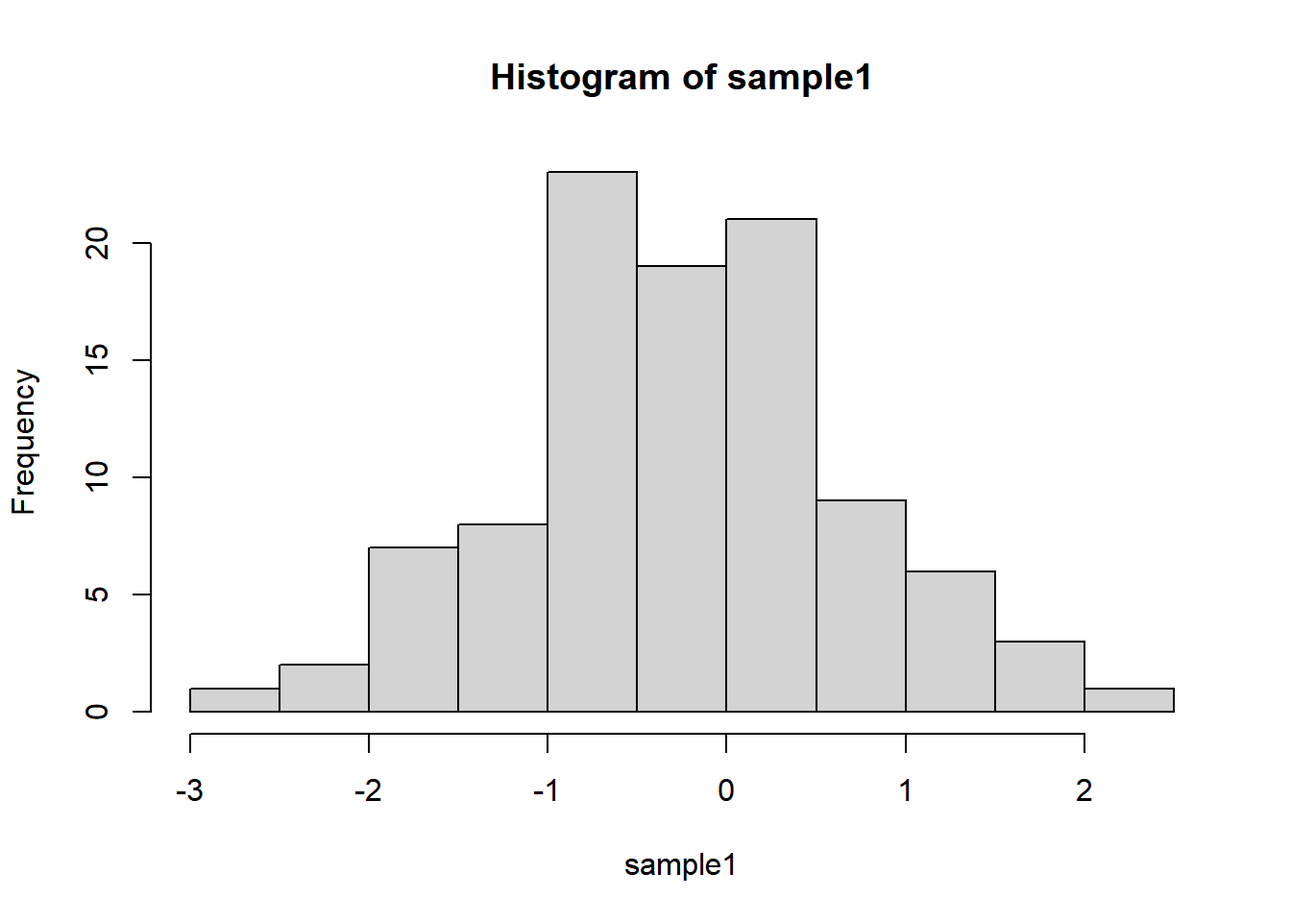
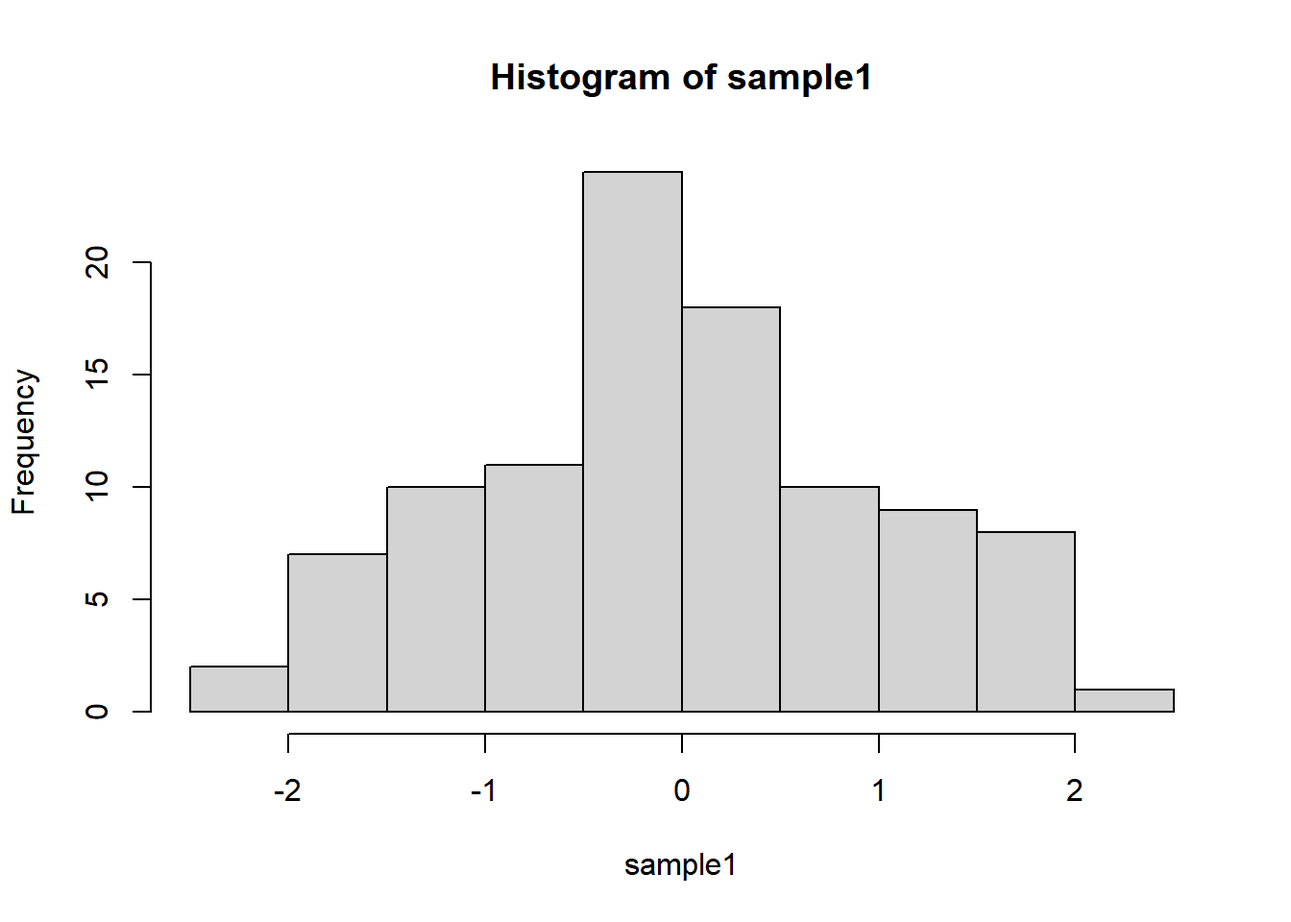
ditto

diff --git a/docs/S01.html b/docs/S01.html
@@ -1047,126 +1047,126 @@ mean temperature forecasts in 5 days in Shenzhen:</p>
 <span id="cb97-4"><a href="#cb97-4" tabindex="-1"></a>    <span class="fu">print</span>(<span class="fu">paste</span>(Daily_T,Hourly_T))</span>
 <span id="cb97-5"><a href="#cb97-5" tabindex="-1"></a>  }</span>
 <span id="cb97-6"><a href="#cb97-6" tabindex="-1"></a>}</span></code></pre></div>
-<pre><code>## [1] &quot;28 34.1789628545758&quot;
-## [1] &quot;28 32.5464531091401&quot;
-## [1] &quot;28 17.1944224184838&quot;
-## [1] &quot;28 30.1092030685489&quot;
-## [1] &quot;28 34.5397821079099&quot;
-## [1] &quot;28 26.8626919018606&quot;
-## [1] &quot;28 28.9107819169358&quot;
-## [1] &quot;28 26.9672509397576&quot;
-## [1] &quot;28 36.1962941023981&quot;
-## [1] &quot;28 23.8647009701312&quot;
-## [1] &quot;28 28.9701057386779&quot;
-## [1] &quot;28 31.3891449732738&quot;
-## [1] &quot;28 27.062786732847&quot;
-## [1] &quot;28 22.9555838861295&quot;
-## [1] &quot;28 27.1262063818752&quot;
-## [1] &quot;28 18.7611912951629&quot;
-## [1] &quot;28 27.0166201102975&quot;
-## [1] &quot;28 27.2133431189386&quot;
-## [1] &quot;28 26.7823750610976&quot;
-## [1] &quot;28 34.6629149973301&quot;
-## [1] &quot;28 30.4998897130068&quot;
-## [1] &quot;28 22.3022344909813&quot;
-## [1] &quot;28 27.8430251407478&quot;
-## [1] &quot;28 15.7431617521888&quot;
-## [1] &quot;27 20.6781803726533&quot;
-## [1] &quot;27 28.0393661637685&quot;
-## [1] &quot;27 19.9562191155122&quot;
-## [1] &quot;27 30.529371304621&quot;
-## [1] &quot;27 27.1371851052127&quot;
-## [1] &quot;27 28.4687783110951&quot;
-## [1] &quot;27 24.0384866511183&quot;
-## [1] &quot;27 27.0266821237088&quot;
-## [1] &quot;27 27.0421463380189&quot;
-## [1] &quot;27 28.665624072707&quot;
-## [1] &quot;27 24.2302329237903&quot;
-## [1] &quot;27 18.7485077607863&quot;
-## [1] &quot;27 13.1817074621106&quot;
-## [1] &quot;27 26.5476443827909&quot;
-## [1] &quot;27 28.158245455876&quot;
-## [1] &quot;27 22.3245972229205&quot;
-## [1] &quot;27 30.4884313208543&quot;
-## [1] &quot;27 28.7551039132199&quot;
-## [1] &quot;27 23.2788966209363&quot;
-## [1] &quot;27 33.4777819549065&quot;
-## [1] &quot;27 30.0862827242098&quot;
-## [1] &quot;27 26.7526867556822&quot;
-## [1] &quot;27 25.8350737372205&quot;
-## [1] &quot;27 26.1927800240109&quot;
-## [1] &quot;28 32.4112423468704&quot;
-## [1] &quot;28 39.7996456659934&quot;
-## [1] &quot;28 38.1320265769205&quot;
-## [1] &quot;28 29.1098420373582&quot;
-## [1] &quot;28 13.7430061309092&quot;
-## [1] &quot;28 22.2658917870903&quot;
-## [1] &quot;28 32.7173509151655&quot;
-## [1] &quot;28 18.976552421835&quot;
-## [1] &quot;28 29.8469183565835&quot;
-## [1] &quot;28 22.1207188903068&quot;
-## [1] &quot;28 24.411807062223&quot;
-## [1] &quot;28 27.817393744901&quot;
-## [1] &quot;28 19.0820297202336&quot;
-## [1] &quot;28 31.3314099718602&quot;
-## [1] &quot;28 22.3486377381321&quot;
-## [1] &quot;28 34.4928339554602&quot;
-## [1] &quot;28 27.8707762850753&quot;
-## [1] &quot;28 31.4397546917298&quot;
-## [1] &quot;28 29.1558021693358&quot;
-## [1] &quot;28 32.2007885583386&quot;
-## [1] &quot;28 30.0831787849879&quot;
-## [1] &quot;28 19.4727640894584&quot;
-## [1] &quot;28 27.0756278056094&quot;
-## [1] &quot;28 31.0906522102998&quot;
-## [1] &quot;26 18.836592826767&quot;
-## [1] &quot;26 30.8074303805953&quot;
-## [1] &quot;26 31.4544062842018&quot;
-## [1] &quot;26 27.09878086523&quot;
-## [1] &quot;26 27.1254932464347&quot;
-## [1] &quot;26 20.6173051039619&quot;
-## [1] &quot;26 32.421857363002&quot;
-## [1] &quot;26 27.0569850965368&quot;
-## [1] &quot;26 17.4797153583461&quot;
-## [1] &quot;26 22.0801893756404&quot;
-## [1] &quot;26 26.6021323991658&quot;
-## [1] &quot;26 27.4604503385699&quot;
-## [1] &quot;26 23.37969171&quot;
-## [1] &quot;26 32.7884808018584&quot;
-## [1] &quot;26 25.512595487915&quot;
-## [1] &quot;26 15.0011812002227&quot;
-## [1] &quot;26 33.108536095054&quot;
-## [1] &quot;26 27.8059191187299&quot;
-## [1] &quot;26 26.2294555875901&quot;
-## [1] &quot;26 16.9036281883117&quot;
-## [1] &quot;26 29.8664530390802&quot;
-## [1] &quot;26 23.8274023054965&quot;
-## [1] &quot;26 26.5019832056272&quot;
-## [1] &quot;26 33.4980425548479&quot;
-## [1] &quot;27 31.6016554330236&quot;
-## [1] &quot;27 27.7624517141814&quot;
-## [1] &quot;27 28.7763030890326&quot;
-## [1] &quot;27 28.0430856655609&quot;
-## [1] &quot;27 32.4511143656418&quot;
-## [1] &quot;27 26.7863432036462&quot;
-## [1] &quot;27 21.5865823462776&quot;
-## [1] &quot;27 24.1630139749067&quot;
-## [1] &quot;27 27.3227840861997&quot;
-## [1] &quot;27 25.3153244251879&quot;
-## [1] &quot;27 27.2799643911755&quot;
-## [1] &quot;27 19.6165210251332&quot;
-## [1] &quot;27 32.9206325314898&quot;
-## [1] &quot;27 31.0255056632425&quot;
-## [1] &quot;27 23.1343973914801&quot;
-## [1] &quot;27 33.6617344568002&quot;
-## [1] &quot;27 23.7555019294874&quot;
-## [1] &quot;27 28.8184230298212&quot;
-## [1] &quot;27 26.5254190212805&quot;
-## [1] &quot;27 26.3555284071362&quot;
-## [1] &quot;27 26.1305208599868&quot;
-## [1] &quot;27 25.1544653397834&quot;
-## [1] &quot;27 25.4142736282913&quot;
-## [1] &quot;27 31.2613147694574&quot;</code></pre>
+<pre><code>## [1] &quot;28 25.5781906265586&quot;
+## [1] &quot;28 20.4567239279177&quot;
+## [1] &quot;28 33.2332941170474&quot;
+## [1] &quot;28 26.6041498973038&quot;
+## [1] &quot;28 28.5962178120706&quot;
+## [1] &quot;28 25.9451472082166&quot;
+## [1] &quot;28 26.9108858508206&quot;
+## [1] &quot;28 39.2733176688309&quot;
+## [1] &quot;28 35.4727367256317&quot;
+## [1] &quot;28 18.2859967644885&quot;
+## [1] &quot;28 33.9368432378588&quot;
+## [1] &quot;28 34.0755112591129&quot;
+## [1] &quot;28 30.3043946663635&quot;
+## [1] &quot;28 22.0813382087039&quot;
+## [1] &quot;28 33.8752610060431&quot;
+## [1] &quot;28 29.969805632702&quot;
+## [1] &quot;28 35.3860623199022&quot;
+## [1] &quot;28 38.8836026800082&quot;
+## [1] &quot;28 35.0209906059588&quot;
+## [1] &quot;28 29.701984657821&quot;
+## [1] &quot;28 26.0458611537362&quot;
+## [1] &quot;28 43.6067619842215&quot;
+## [1] &quot;28 29.610139213537&quot;
+## [1] &quot;28 33.7060247783678&quot;
+## [1] &quot;27 26.0735630609044&quot;
+## [1] &quot;27 22.8074100623091&quot;
+## [1] &quot;27 37.6923012813089&quot;
+## [1] &quot;27 22.9770834704983&quot;
+## [1] &quot;27 27.7764062959639&quot;
+## [1] &quot;27 31.3707522401436&quot;
+## [1] &quot;27 26.0173716721558&quot;
+## [1] &quot;27 24.9748270450194&quot;
+## [1] &quot;27 25.9763987174491&quot;
+## [1] &quot;27 32.7802956957123&quot;
+## [1] &quot;27 30.4563540649198&quot;
+## [1] &quot;27 21.2579222660786&quot;
+## [1] &quot;27 23.3811849177809&quot;
+## [1] &quot;27 31.7317103195707&quot;
+## [1] &quot;27 27.5938620788657&quot;
+## [1] &quot;27 21.579724152138&quot;
+## [1] &quot;27 23.3037422967055&quot;
+## [1] &quot;27 17.6007716248955&quot;
+## [1] &quot;27 34.6134538935984&quot;
+## [1] &quot;27 18.7526484441017&quot;
+## [1] &quot;27 17.5896551647839&quot;
+## [1] &quot;27 25.9800034260357&quot;
+## [1] &quot;27 24.3872840187941&quot;
+## [1] &quot;27 33.104906326996&quot;
+## [1] &quot;28 19.914405513451&quot;
+## [1] &quot;28 31.2102607578118&quot;
+## [1] &quot;28 38.7593286860746&quot;
+## [1] &quot;28 30.6096590058041&quot;
+## [1] &quot;28 30.7468029456331&quot;
+## [1] &quot;28 33.0197211972052&quot;
+## [1] &quot;28 29.3645726782182&quot;
+## [1] &quot;28 27.7997697070961&quot;
+## [1] &quot;28 25.3079477556706&quot;
+## [1] &quot;28 31.5388832707992&quot;
+## [1] &quot;28 36.3753110859506&quot;
+## [1] &quot;28 22.5600331812626&quot;
+## [1] &quot;28 23.4429644329102&quot;
+## [1] &quot;28 31.53293984898&quot;
+## [1] &quot;28 15.8532165892665&quot;
+## [1] &quot;28 28.2112690682581&quot;
+## [1] &quot;28 23.0186617564579&quot;
+## [1] &quot;28 34.7289836888871&quot;
+## [1] &quot;28 33.452168190403&quot;
+## [1] &quot;28 23.4083092619187&quot;
+## [1] &quot;28 30.1279903413448&quot;
+## [1] &quot;28 27.5938419967275&quot;
+## [1] &quot;28 33.012633172443&quot;
+## [1] &quot;28 30.5961089392936&quot;
+## [1] &quot;26 23.2499169977259&quot;
+## [1] &quot;26 23.704255219711&quot;
+## [1] &quot;26 25.7982516489223&quot;
+## [1] &quot;26 30.1755886636917&quot;
+## [1] &quot;26 26.2137725632462&quot;
+## [1] &quot;26 21.3648810693786&quot;
+## [1] &quot;26 21.4315353490982&quot;
+## [1] &quot;26 21.8547105960294&quot;
+## [1] &quot;26 25.0363031012838&quot;
+## [1] &quot;26 25.0027106165283&quot;
+## [1] &quot;26 26.5571876081407&quot;
+## [1] &quot;26 27.7563556141215&quot;
+## [1] &quot;26 31.8625694507486&quot;
+## [1] &quot;26 18.8265436717458&quot;
+## [1] &quot;26 22.3366638232299&quot;
+## [1] &quot;26 29.8607662758126&quot;
+## [1] &quot;26 22.4961450998331&quot;
+## [1] &quot;26 20.6519303231741&quot;
+## [1] &quot;26 24.0513235259458&quot;
+## [1] &quot;26 23.8650677845564&quot;
+## [1] &quot;26 32.8157497230655&quot;
+## [1] &quot;26 28.0535619789165&quot;
+## [1] &quot;26 21.7995742576691&quot;
+## [1] &quot;26 29.4455778380513&quot;
+## [1] &quot;27 25.0588162703805&quot;
+## [1] &quot;27 22.2889420077492&quot;
+## [1] &quot;27 31.5315393350429&quot;
+## [1] &quot;27 30.9871234077398&quot;
+## [1] &quot;27 24.6969774205169&quot;
+## [1] &quot;27 24.3335699699275&quot;
+## [1] &quot;27 28.9825491982804&quot;
+## [1] &quot;27 21.0365765040934&quot;
+## [1] &quot;27 21.1885550565443&quot;
+## [1] &quot;27 21.3343501845616&quot;
+## [1] &quot;27 35.2769716189276&quot;
+## [1] &quot;27 21.272760573224&quot;
+## [1] &quot;27 19.8254941934068&quot;
+## [1] &quot;27 32.8421988179092&quot;
+## [1] &quot;27 27.922505668905&quot;
+## [1] &quot;27 26.6463845224096&quot;
+## [1] &quot;27 26.0015573534694&quot;
+## [1] &quot;27 29.7623977231268&quot;
+## [1] &quot;27 31.8497782657212&quot;
+## [1] &quot;27 28.8843506266517&quot;
+## [1] &quot;27 22.471214761295&quot;
+## [1] &quot;27 27.9223529524449&quot;
+## [1] &quot;27 28.5506948124964&quot;
+## [1] &quot;27 28.1147774874117&quot;</code></pre>
 <p>Here at each <code>Hour</code> we use the <code>rnorm()</code>
 function to generate <code>1</code> random Gaussian sample with a mean
 of <code>Daily_T</code> and a standard deviation of <code>5</code>.</p>
@@ -1189,20 +1189,20 @@ new <em>object</em>:</p>
 <span id="cb99-8"><a href="#cb99-8" tabindex="-1"></a>}</span>
 <span id="cb99-9"><a href="#cb99-9" tabindex="-1"></a></span>
 <span id="cb99-10"><a href="#cb99-10" tabindex="-1"></a><span class="fu">print</span>(Output_List)</span></code></pre></div>
-<pre><code>##   [1] &quot;28 30.3311927132314&quot; &quot;28 31.5869634566474&quot; &quot;28 24.7310847874621&quot; &quot;28 35.4532493787494&quot; &quot;28 34.2372486435248&quot; &quot;28 15.5774205489193&quot; &quot;28 24.1033291772396&quot; &quot;28 22.4185092800339&quot; &quot;28 31.7536192750937&quot;
-##  [10] &quot;28 36.4276776226295&quot; &quot;28 32.0540937319689&quot; &quot;28 31.5877823457204&quot; &quot;28 32.3280925070141&quot; &quot;28 27.1278441099828&quot; &quot;28 28.883103132714&quot;  &quot;28 27.125533594108&quot;  &quot;28 28.4392581913661&quot; &quot;28 17.6023899909863&quot;
-##  [19] &quot;28 25.4928328764133&quot; &quot;28 29.6458729108949&quot; &quot;28 27.1421019406133&quot; &quot;28 30.3753283387501&quot; &quot;28 28.8441960764281&quot; &quot;28 28.7444227039936&quot; &quot;27 23.6164441180586&quot; &quot;27 26.276930300472&quot;  &quot;27 21.9589733425795&quot;
-##  [28] &quot;27 24.9479657610394&quot; &quot;27 22.104167416649&quot;  &quot;27 18.6985346475805&quot; &quot;27 25.033266153221&quot;  &quot;27 26.9410153687327&quot; &quot;27 25.3418852388952&quot; &quot;27 26.1137266623711&quot; &quot;27 31.5275217130887&quot; &quot;27 32.1037802454801&quot;
-##  [37] &quot;27 27.8504395720373&quot; &quot;27 31.179979618126&quot;  &quot;27 27.9080323329414&quot; &quot;27 26.5545607571125&quot; &quot;27 31.4743221634877&quot; &quot;27 29.3442229891081&quot; &quot;27 33.3963077760963&quot; &quot;27 29.1375926629208&quot; &quot;27 25.930703616999&quot; 
-##  [46] &quot;27 29.947869320019&quot;  &quot;27 24.3065325344222&quot; &quot;27 26.4032203332818&quot; &quot;28 31.4606292909081&quot; &quot;28 32.653957789661&quot;  &quot;28 28.354240515877&quot;  &quot;28 30.9279898596118&quot; &quot;28 22.8662534754139&quot; &quot;28 26.7339997324661&quot;
-##  [55] &quot;28 31.1280897370017&quot; &quot;28 28.0041877645418&quot; &quot;28 31.9463096891893&quot; &quot;28 36.0147670283761&quot; &quot;28 27.7485670994762&quot; &quot;28 25.9464157113024&quot; &quot;28 38.3279865925668&quot; &quot;28 36.8569088756919&quot; &quot;28 36.560683578577&quot; 
-##  [64] &quot;28 33.6352124516751&quot; &quot;28 29.2066202275361&quot; &quot;28 26.676946594485&quot;  &quot;28 20.3875043205285&quot; &quot;28 18.8230796270087&quot; &quot;28 35.8145070968407&quot; &quot;28 26.8545180064777&quot; &quot;28 27.0204921209249&quot; &quot;28 30.9794961124972&quot;
-##  [73] &quot;26 20.5781336070903&quot; &quot;26 26.9162853250062&quot; &quot;26 34.939727174058&quot;  &quot;26 26.5699552240981&quot; &quot;26 17.3862975878296&quot; &quot;26 17.6040815839139&quot; &quot;26 30.0488546700843&quot; &quot;26 25.204845594525&quot;  &quot;26 32.8072876870715&quot;
-##  [82] &quot;26 19.0324403436435&quot; &quot;26 38.983172895449&quot;  &quot;26 27.2435746525824&quot; &quot;26 26.4385017972&quot;    &quot;26 29.5898710606478&quot; &quot;26 19.5636858316795&quot; &quot;26 32.0439049257306&quot; &quot;26 26.4987969223572&quot; &quot;26 30.5100980786448&quot;
-##  [91] &quot;26 22.3089290823626&quot; &quot;26 34.2632497225545&quot; &quot;26 28.5336556538454&quot; &quot;26 24.2776881195142&quot; &quot;26 29.1737738659104&quot; &quot;26 25.8147113159581&quot; &quot;27 25.5112420068574&quot; &quot;27 21.6332174999345&quot; &quot;27 22.7782757520297&quot;
-## [100] &quot;27 32.2696184712908&quot; &quot;27 28.2594112010873&quot; &quot;27 28.5725038921002&quot; &quot;27 28.367742045017&quot;  &quot;27 32.4828988342426&quot; &quot;27 28.6250134957331&quot; &quot;27 25.6819461944739&quot; &quot;27 35.0151122844469&quot; &quot;27 22.7755680676461&quot;
-## [109] &quot;27 29.9687774406121&quot; &quot;27 27.1239030357211&quot; &quot;27 24.0133426355465&quot; &quot;27 26.3504028960761&quot; &quot;27 30.3047602626153&quot; &quot;27 24.4850945522539&quot; &quot;27 27.6231315256008&quot; &quot;27 22.5491900733573&quot; &quot;27 37.0286807067851&quot;
-## [118] &quot;27 29.7223646258051&quot; &quot;27 26.9133431767463&quot; &quot;27 31.2923629863467&quot;</code></pre>
+<pre><code>##   [1] &quot;28 26.2211223612357&quot; &quot;28 28.4903529641336&quot; &quot;28 28.8976435629461&quot; &quot;28 35.9283591166589&quot; &quot;28 31.28960056622&quot;   &quot;28 22.1598098896461&quot; &quot;28 37.5527424952689&quot; &quot;28 35.2718091088882&quot; &quot;28 28.2662363079621&quot;
+##  [10] &quot;28 17.5219934414932&quot; &quot;28 28.7031615178311&quot; &quot;28 26.7336966145435&quot; &quot;28 33.0416066767921&quot; &quot;28 26.024647307429&quot;  &quot;28 14.5644115352057&quot; &quot;28 28.611154556534&quot;  &quot;28 23.4327758530572&quot; &quot;28 23.7677582443508&quot;
+##  [19] &quot;28 31.2174805907635&quot; &quot;28 36.9990294687359&quot; &quot;28 35.3269440325131&quot; &quot;28 33.5264800132662&quot; &quot;28 30.269778348439&quot;  &quot;28 30.9801553051602&quot; &quot;27 27.5474911129767&quot; &quot;27 28.7348648943173&quot; &quot;27 20.4374533476114&quot;
+##  [28] &quot;27 20.8402599572615&quot; &quot;27 29.32459312604&quot;   &quot;27 32.3950822248504&quot; &quot;27 21.854835434949&quot;  &quot;27 37.153511302106&quot;  &quot;27 28.0084208829876&quot; &quot;27 26.5041037836041&quot; &quot;27 28.8450516888355&quot; &quot;27 27.8432385516137&quot;
+##  [37] &quot;27 28.9006065510661&quot; &quot;27 29.2557085958878&quot; &quot;27 26.7577834178867&quot; &quot;27 23.0993176214664&quot; &quot;27 18.1537731245943&quot; &quot;27 29.8533738758517&quot; &quot;27 20.3426485967247&quot; &quot;27 31.5135532450865&quot; &quot;27 25.5371900460864&quot;
+##  [46] &quot;27 33.9581307177199&quot; &quot;27 24.1460632957388&quot; &quot;27 26.5784782050325&quot; &quot;28 36.2113085573694&quot; &quot;28 25.4631763216163&quot; &quot;28 28.3672647831013&quot; &quot;28 30.4729782946914&quot; &quot;28 28.3986912710652&quot; &quot;28 22.9010929944594&quot;
+##  [55] &quot;28 23.8013092892866&quot; &quot;28 26.3330568271765&quot; &quot;28 28.3190508033734&quot; &quot;28 31.333962288065&quot;  &quot;28 20.4972815359217&quot; &quot;28 33.844606244299&quot;  &quot;28 29.2195063265557&quot; &quot;28 27.0445943295129&quot; &quot;28 22.8640686081128&quot;
+##  [64] &quot;28 29.4796337618858&quot; &quot;28 25.8581033389258&quot; &quot;28 24.1591229418318&quot; &quot;28 28.230022280973&quot;  &quot;28 30.4606472271114&quot; &quot;28 32.0811333169262&quot; &quot;28 27.3220412487744&quot; &quot;28 25.4757557280296&quot; &quot;28 28.8451582301974&quot;
+##  [73] &quot;26 23.0257681624341&quot; &quot;26 21.8141168760932&quot; &quot;26 35.6968034435075&quot; &quot;26 34.2085016040203&quot; &quot;26 29.6530663538318&quot; &quot;26 25.6706556710239&quot; &quot;26 22.718798221354&quot;  &quot;26 26.6796418776006&quot; &quot;26 22.56847309638&quot;  
+##  [82] &quot;26 25.9493247362961&quot; &quot;26 33.8341665997948&quot; &quot;26 22.7492321003694&quot; &quot;26 26.0532133480632&quot; &quot;26 27.2436558384041&quot; &quot;26 25.4721801288799&quot; &quot;26 20.3998991825779&quot; &quot;26 30.6140079351034&quot; &quot;26 27.6810116679337&quot;
+##  [91] &quot;26 33.9939522842354&quot; &quot;26 23.4013454238798&quot; &quot;26 27.0207340492255&quot; &quot;26 16.542764767384&quot;  &quot;26 26.0328080699117&quot; &quot;26 21.6898859415822&quot; &quot;27 26.8054550526745&quot; &quot;27 23.3754802380486&quot; &quot;27 23.5679579502627&quot;
+## [100] &quot;27 29.1392886692033&quot; &quot;27 23.0713697525139&quot; &quot;27 25.672284699114&quot;  &quot;27 26.3296681982955&quot; &quot;27 29.9275981278445&quot; &quot;27 29.3304293724597&quot; &quot;27 25.5396558972049&quot; &quot;27 28.7680099539732&quot; &quot;27 23.4254968409379&quot;
+## [109] &quot;27 28.2815238621339&quot; &quot;27 31.307308886975&quot;  &quot;27 28.1889215796193&quot; &quot;27 26.5530170993551&quot; &quot;27 25.4546844244926&quot; &quot;27 33.973531942954&quot;  &quot;27 32.8843192841086&quot; &quot;27 34.9933704072985&quot; &quot;27 18.4058531971987&quot;
+## [118] &quot;27 35.6443860783959&quot; &quot;27 25.6315943899304&quot; &quot;27 16.9482915690414&quot;</code></pre>
 <p>This approach can be useful, but “growing your results” (building the
 result object incrementally) is <strong>computationally
 inefficient</strong>, so avoid it when you are iterating through a lot
@@ -1230,20 +1230,20 @@ class="sourceCode r"><code class="sourceCode r"><span id="cb101-1"><a href="#cb1
 <span id="cb101-9"><a href="#cb101-9" tabindex="-1"></a>}</span>
 <span id="cb101-10"><a href="#cb101-10" tabindex="-1"></a>Output_Matrix2 <span class="ot">&lt;-</span> <span class="fu">as.vector</span>(Output_Matrix)</span>
 <span id="cb101-11"><a href="#cb101-11" tabindex="-1"></a>Output_Matrix2</span></code></pre></div>
-<pre><code>##   [1] &quot;28 25.4205381516387&quot; &quot;27 29.8233180580072&quot; &quot;28 24.8751046329814&quot; &quot;26 24.1652635607281&quot; &quot;27 23.4761567614493&quot; &quot;28 19.3570324387719&quot; &quot;27 21.4292575394336&quot; &quot;28 25.0360415380168&quot; &quot;26 14.4642999527198&quot;
-##  [10] &quot;27 31.6892342371009&quot; &quot;28 31.2021569679392&quot; &quot;27 29.8591108593384&quot; &quot;28 28.9936905316142&quot; &quot;26 31.6007533444394&quot; &quot;27 31.5305626357043&quot; &quot;28 33.3527083316394&quot; &quot;27 27.0477907445983&quot; &quot;28 30.9556892145899&quot;
-##  [19] &quot;26 20.2333083555859&quot; &quot;27 32.5122402469837&quot; &quot;28 35.0042624539415&quot; &quot;27 28.2991707433271&quot; &quot;28 32.8301109417189&quot; &quot;26 20.063809652422&quot;  &quot;27 23.2744978675896&quot; &quot;28 36.7267038614152&quot; &quot;27 22.8673145679379&quot;
-##  [28] &quot;28 27.078689784198&quot;  &quot;26 29.3163389921112&quot; &quot;27 33.936805614139&quot;  &quot;28 22.6559953901712&quot; &quot;27 25.0594236148074&quot; &quot;28 27.9571023155105&quot; &quot;26 30.7594707074941&quot; &quot;27 30.1159697926329&quot; &quot;28 22.2189760399103&quot;
-##  [37] &quot;27 24.0544136816495&quot; &quot;28 32.1186605006192&quot; &quot;26 30.0187679430158&quot; &quot;27 25.6499362083643&quot; &quot;28 33.587972557411&quot;  &quot;27 40.3548508953847&quot; &quot;28 34.0359805134054&quot; &quot;26 28.1383672558044&quot; &quot;27 31.1307284189929&quot;
-##  [46] &quot;28 25.9247547905583&quot; &quot;27 18.2739471256531&quot; &quot;28 27.9419653194077&quot; &quot;26 23.0607830039339&quot; &quot;27 27.9247278445266&quot; &quot;28 24.8039127494185&quot; &quot;27 29.415422639969&quot;  &quot;28 25.4697194799234&quot; &quot;26 29.6961392225962&quot;
-##  [55] &quot;27 31.8886293526382&quot; &quot;28 26.6385055369248&quot; &quot;27 23.3907225620056&quot; &quot;28 26.0592123257139&quot; &quot;26 26.8377319168448&quot; &quot;27 25.0705071900939&quot; &quot;28 26.3361492957254&quot; &quot;27 25.645742992715&quot;  &quot;28 31.5954875631729&quot;
-##  [64] &quot;26 32.2535703462043&quot; &quot;27 28.3734571673006&quot; &quot;28 28.9339634305542&quot; &quot;27 25.6921503583773&quot; &quot;28 32.3388476096959&quot; &quot;26 15.4280960967561&quot; &quot;27 18.5265491142306&quot; &quot;28 26.4299587738158&quot; &quot;27 16.2773115243409&quot;
-##  [73] &quot;28 25.8190052364317&quot; &quot;26 28.8095473424343&quot; &quot;27 30.4065967378688&quot; &quot;28 26.1209119080991&quot; &quot;27 36.9496186970947&quot; &quot;28 33.5960482426257&quot; &quot;26 25.4240060124998&quot; &quot;27 25.4297103999767&quot; &quot;28 25.8798972083706&quot;
-##  [82] &quot;27 22.4195368085689&quot; &quot;28 29.8062240854685&quot; &quot;26 14.6807676288183&quot; &quot;27 22.9095818569281&quot; &quot;28 34.5307391780751&quot; &quot;27 21.9650486258031&quot; &quot;28 26.4869857860187&quot; &quot;26 28.6297747841368&quot; &quot;27 26.60665364273&quot;  
-##  [91] &quot;28 30.1018337528767&quot; &quot;27 19.9800895643686&quot; &quot;28 24.308292416987&quot;  &quot;26 31.3904443493207&quot; &quot;27 28.730727399038&quot;  &quot;28 29.6666509832379&quot; &quot;27 26.1219044232772&quot; &quot;28 30.756070812552&quot;  &quot;26 23.2877405691498&quot;
-## [100] &quot;27 37.3650182819986&quot; &quot;28 28.5718852293786&quot; &quot;27 21.8326777271208&quot; &quot;28 31.1025734485897&quot; &quot;26 19.2745382381233&quot; &quot;27 20.8733648149743&quot; &quot;28 16.2797058165967&quot; &quot;27 23.331245262939&quot;  &quot;28 31.8752410198867&quot;
-## [109] &quot;26 20.5017583306014&quot; &quot;27 25.7020024394661&quot; &quot;28 29.9906709931828&quot; &quot;27 26.0201831583182&quot; &quot;28 20.0870269926698&quot; &quot;26 30.5819621180694&quot; &quot;27 27.2623387970476&quot; &quot;28 31.0215322015701&quot; &quot;27 23.8605007354802&quot;
-## [118] &quot;28 32.1249923612312&quot; &quot;26 22.7454475800639&quot; &quot;27 25.4222097394568&quot;</code></pre>
+<pre><code>##   [1] &quot;28 31.6249199847636&quot; &quot;27 18.407825723217&quot;  &quot;28 39.8124999729035&quot; &quot;26 25.212474112882&quot;  &quot;27 22.6038599136266&quot; &quot;28 22.0571298657321&quot; &quot;27 23.9059527615378&quot; &quot;28 38.2195430054347&quot; &quot;26 34.483292839904&quot; 
+##  [10] &quot;27 31.6061119431041&quot; &quot;28 38.8435415110663&quot; &quot;27 22.5932995640363&quot; &quot;28 16.3329242947636&quot; &quot;26 19.45912762973&quot;   &quot;27 28.1843233038322&quot; &quot;28 23.4121634266455&quot; &quot;27 30.591417008981&quot;  &quot;28 29.5067156200226&quot;
+##  [19] &quot;26 24.9709471132403&quot; &quot;27 26.4071152000596&quot; &quot;28 23.2316378177759&quot; &quot;27 14.2112222408801&quot; &quot;28 39.3091720383688&quot; &quot;26 21.8337231117178&quot; &quot;27 23.2331538052264&quot; &quot;28 28.574722155591&quot;  &quot;27 31.9658117337789&quot;
+##  [28] &quot;28 27.3136488424413&quot; &quot;26 19.1941143037495&quot; &quot;27 13.0174570279777&quot; &quot;28 28.1953511506014&quot; &quot;27 21.4310443561024&quot; &quot;28 21.2579856021094&quot; &quot;26 23.0247647434466&quot; &quot;27 19.3625738219297&quot; &quot;28 32.2920224845808&quot;
+##  [37] &quot;27 26.7578046504662&quot; &quot;28 24.3522107430562&quot; &quot;26 36.1400646137696&quot; &quot;27 21.8050621623042&quot; &quot;28 30.6259183143834&quot; &quot;27 29.4040573221824&quot; &quot;28 31.5840426719386&quot; &quot;26 27.2127205956732&quot; &quot;27 21.8071181121405&quot;
+##  [46] &quot;28 33.2261815761654&quot; &quot;27 24.0146675842777&quot; &quot;28 25.9242383843207&quot; &quot;26 20.2990004951101&quot; &quot;27 23.6754930848607&quot; &quot;28 27.3120805788618&quot; &quot;27 24.0828603128169&quot; &quot;28 32.0728130005316&quot; &quot;26 21.0849296542344&quot;
+##  [55] &quot;27 28.0907886984791&quot; &quot;28 25.1004744825115&quot; &quot;27 29.7572918383797&quot; &quot;28 15.2063413283988&quot; &quot;26 27.666323804823&quot;  &quot;27 26.6962002057388&quot; &quot;28 26.3558708443821&quot; &quot;27 27.9890454647886&quot; &quot;28 30.281133030904&quot; 
+##  [64] &quot;26 29.7793527967647&quot; &quot;27 24.1022452315561&quot; &quot;28 24.2216926257482&quot; &quot;27 28.3643770673436&quot; &quot;28 15.5232362237147&quot; &quot;26 22.8913928654195&quot; &quot;27 30.5668686492019&quot; &quot;28 31.1299338411798&quot; &quot;27 26.020608960271&quot; 
+##  [73] &quot;28 29.2491823496856&quot; &quot;26 26.7444439490898&quot; &quot;27 27.7303709094075&quot; &quot;28 34.483343051614&quot;  &quot;27 24.086971343569&quot;  &quot;28 31.8961134465308&quot; &quot;26 29.4823345591564&quot; &quot;27 25.5241772648024&quot; &quot;28 22.5615735127326&quot;
+##  [82] &quot;27 24.2834095745221&quot; &quot;28 30.7610620775267&quot; &quot;26 24.7034986458502&quot; &quot;27 25.4552737309804&quot; &quot;28 18.6830108847309&quot; &quot;27 24.387405509274&quot;  &quot;28 20.3901316610433&quot; &quot;26 28.4197621556671&quot; &quot;27 28.2071859898584&quot;
+##  [91] &quot;28 27.5671472038922&quot; &quot;27 21.4225853448329&quot; &quot;28 27.3167569197602&quot; &quot;26 21.6080366527913&quot; &quot;27 28.4469056349692&quot; &quot;28 21.6436022800207&quot; &quot;27 25.0671848750217&quot; &quot;28 25.6940707540995&quot; &quot;26 16.8221785234862&quot;
+## [100] &quot;27 30.5006192104685&quot; &quot;28 25.1951040933788&quot; &quot;27 23.9950901130359&quot; &quot;28 39.6463744627858&quot; &quot;26 18.9676184194264&quot; &quot;27 33.849955219231&quot;  &quot;28 24.0767792825809&quot; &quot;27 26.1225028259899&quot; &quot;28 22.4180538238221&quot;
+## [109] &quot;26 19.8134641884898&quot; &quot;27 25.1210674055203&quot; &quot;28 23.8110969280632&quot; &quot;27 31.9053429699065&quot; &quot;28 34.7818270558461&quot; &quot;26 25.1708192710587&quot; &quot;27 30.6408911756474&quot; &quot;28 17.6706039091125&quot; &quot;27 18.2813877677556&quot;
+## [118] &quot;28 30.734358923486&quot;  &quot;26 35.3727852742287&quot; &quot;27 23.4691006296526&quot;</code></pre>
 <p>Here we use <code>matrix()</code> to create an empty matrix with
 <code>5</code> rows and <code>24</code> columns, and use
 <code>as.vector()</code> to convert the <code>5x24</code> matrix into a

diff --git a/docs/S03.html b/docs/S03.html
@@ -704,16 +704,16 @@ attention to data sets containing <code>NA</code> values.</p>
 <p><img src="S03_files/figure-html/unnamed-chunk-2-1.png" width="672" /></p>
 <div class="sourceCode" id="cb3"><pre class="sourceCode r"><code class="sourceCode r"><span id="cb3-1"><a href="#cb3-1" tabindex="-1"></a><span class="co"># Check the average and sd</span></span>
 <span id="cb3-2"><a href="#cb3-2" tabindex="-1"></a><span class="fu">mean</span>(sample1)</span></code></pre></div>
-<pre><code>## [1] -0.2445847</code></pre>
+<pre><code>## [1] -0.03030817</code></pre>
 <div class="sourceCode" id="cb5"><pre class="sourceCode r"><code class="sourceCode r"><span id="cb5-1"><a href="#cb5-1" tabindex="-1"></a><span class="fu">sd</span>(sample1)</span></code></pre></div>
-<pre><code>## [1] 0.927446</code></pre>
+<pre><code>## [1] 1.014115</code></pre>
 <div class="sourceCode" id="cb7"><pre class="sourceCode r"><code class="sourceCode r"><span id="cb7-1"><a href="#cb7-1" tabindex="-1"></a><span class="co"># Compute the skewness, here we need load the moments package</span></span>
 <span id="cb7-2"><a href="#cb7-2" tabindex="-1"></a><span class="fu">library</span>(moments)</span>
 <span id="cb7-3"><a href="#cb7-3" tabindex="-1"></a><span class="fu">skewness</span>(sample1)</span></code></pre></div>
-<pre><code>## [1] -0.1004322</code></pre>
+<pre><code>## [1] 0.005885371</code></pre>
 <div class="sourceCode" id="cb9"><pre class="sourceCode r"><code class="sourceCode r"><span id="cb9-1"><a href="#cb9-1" tabindex="-1"></a><span class="co"># Compute the kurtosis</span></span>
 <span id="cb9-2"><a href="#cb9-2" tabindex="-1"></a><span class="fu">kurtosis</span>(sample1)</span></code></pre></div>
-<pre><code>## [1] 3.374888</code></pre>
+<pre><code>## [1] 2.500425</code></pre>
 <div class="sourceCode" id="cb11"><pre class="sourceCode r"><code class="sourceCode r"><span id="cb11-1"><a href="#cb11-1" tabindex="-1"></a><span class="co"># Make a log-normal</span></span>
 <span id="cb11-2"><a href="#cb11-2" tabindex="-1"></a>sample2 <span class="ot">&lt;-</span> <span class="fu">exp</span>(sample1<span class="sc">+</span><span class="dv">10</span>)</span>
 <span id="cb11-3"><a href="#cb11-3" tabindex="-1"></a></span>
@@ -721,13 +721,13 @@ attention to data sets containing <code>NA</code> values.</p>
 <span id="cb11-5"><a href="#cb11-5" tabindex="-1"></a><span class="fu">hist</span>(sample2)</span></code></pre></div>
 <p><img src="S03_files/figure-html/unnamed-chunk-2-2.png" width="672" /></p>
 <div class="sourceCode" id="cb12"><pre class="sourceCode r"><code class="sourceCode r"><span id="cb12-1"><a href="#cb12-1" tabindex="-1"></a><span class="fu">mean</span>(sample2)</span></code></pre></div>
-<pre><code>## [1] 26327.11</code></pre>
+<pre><code>## [1] 34803.99</code></pre>
 <div class="sourceCode" id="cb14"><pre class="sourceCode r"><code class="sourceCode r"><span id="cb14-1"><a href="#cb14-1" tabindex="-1"></a><span class="fu">sd</span>(sample2)</span></code></pre></div>
-<pre><code>## [1] 30708.91</code></pre>
+<pre><code>## [1] 37254.66</code></pre>
 <div class="sourceCode" id="cb16"><pre class="sourceCode r"><code class="sourceCode r"><span id="cb16-1"><a href="#cb16-1" tabindex="-1"></a><span class="fu">skewness</span>(sample2)</span></code></pre></div>
-<pre><code>## [1] 3.848402</code></pre>
+<pre><code>## [1] 1.90649</code></pre>
 <div class="sourceCode" id="cb18"><pre class="sourceCode r"><code class="sourceCode r"><span id="cb18-1"><a href="#cb18-1" tabindex="-1"></a><span class="fu">kurtosis</span>(sample2)</span></code></pre></div>
-<pre><code>## [1] 23.31335</code></pre>
+<pre><code>## [1] 6.354318</code></pre>
 <hr />
 </div>
 </div>

diff --git a/docs/S04.html b/docs/S04.html
@@ -641,8 +641,8 @@ likelihood (probability or chance) for this random variable <span
 class="math inline">\(X\)</span> to take on a given value <span
 class="math inline">\(x\)</span>.</p>
 <p>Probability density function is defined by following formula: <span
-class="math display">\[ P(a \le X \le b) = \int_a^b f(x) ~ dx \]</span>
-***</p>
+class="math display">\[ P(a \le X \le b) = \int_a^b f(x) ~ dx
+\]</span></p>
 </div>
 <div id="in-class-exercises" class="section level1">
 <h1>In-class exercises</h1>
